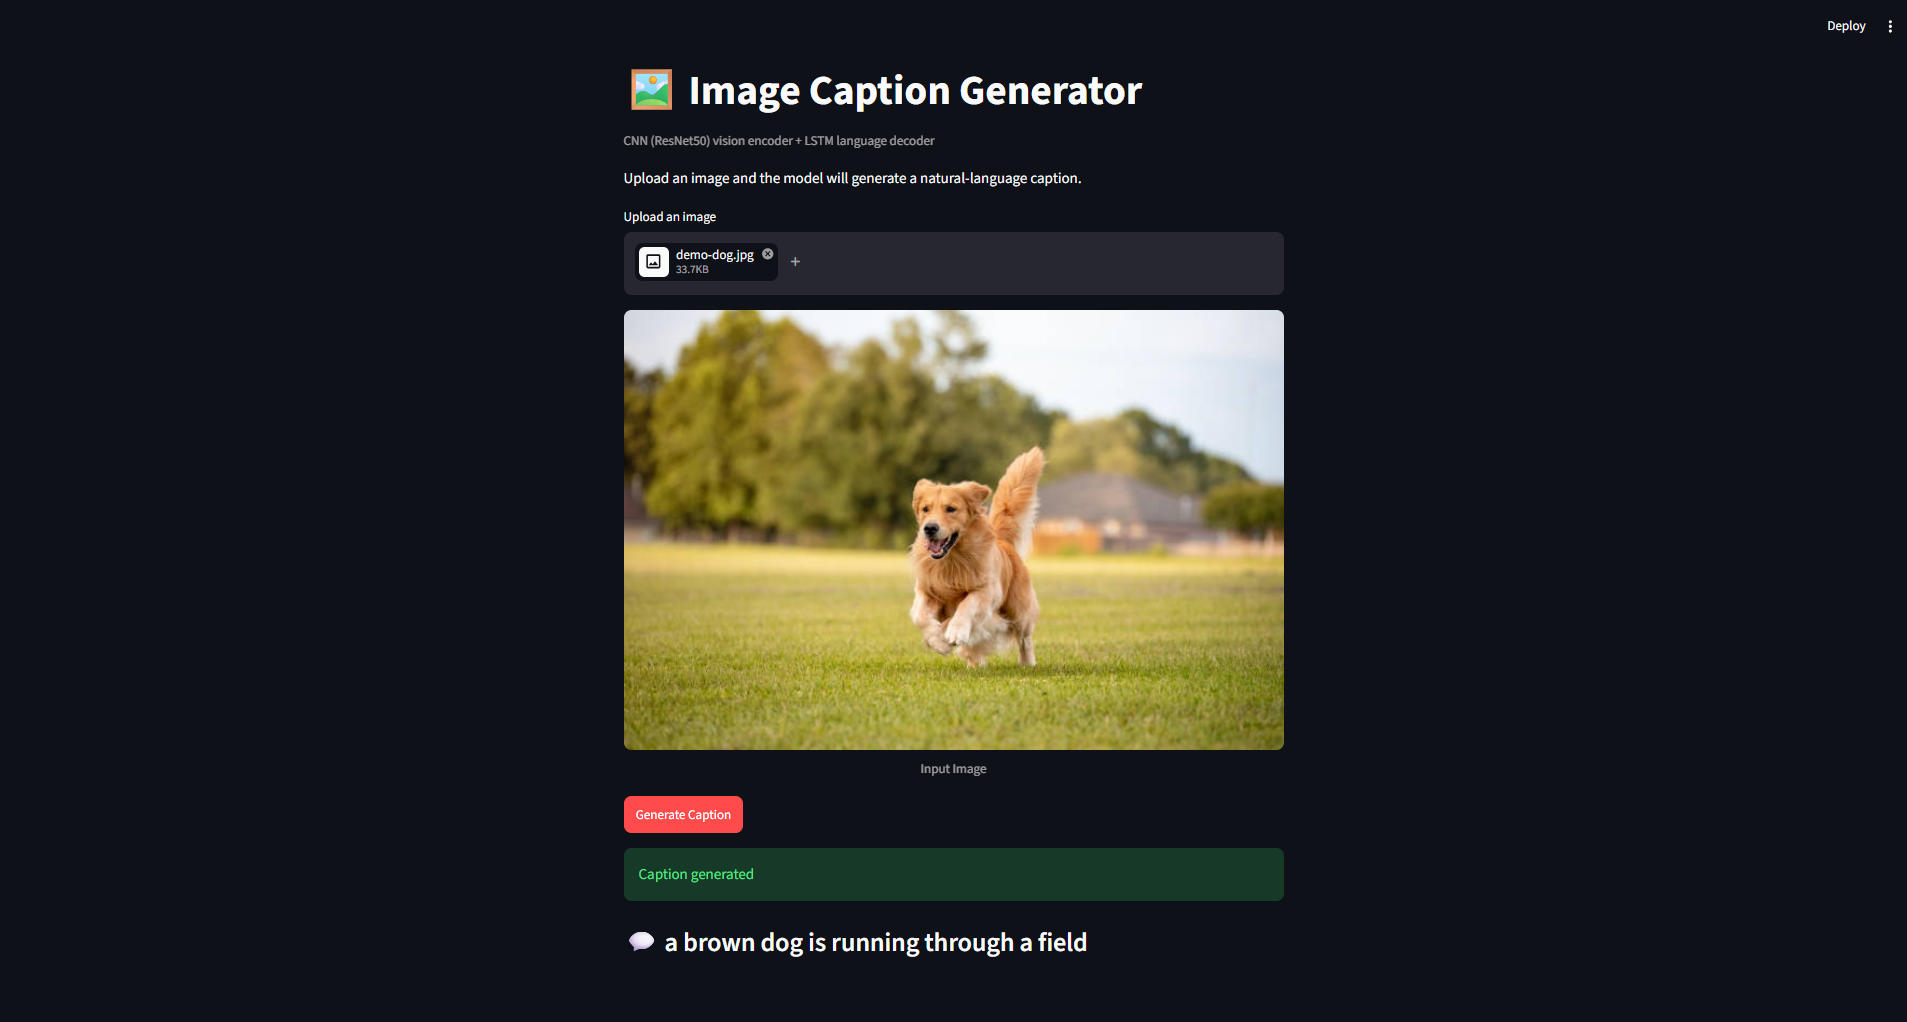
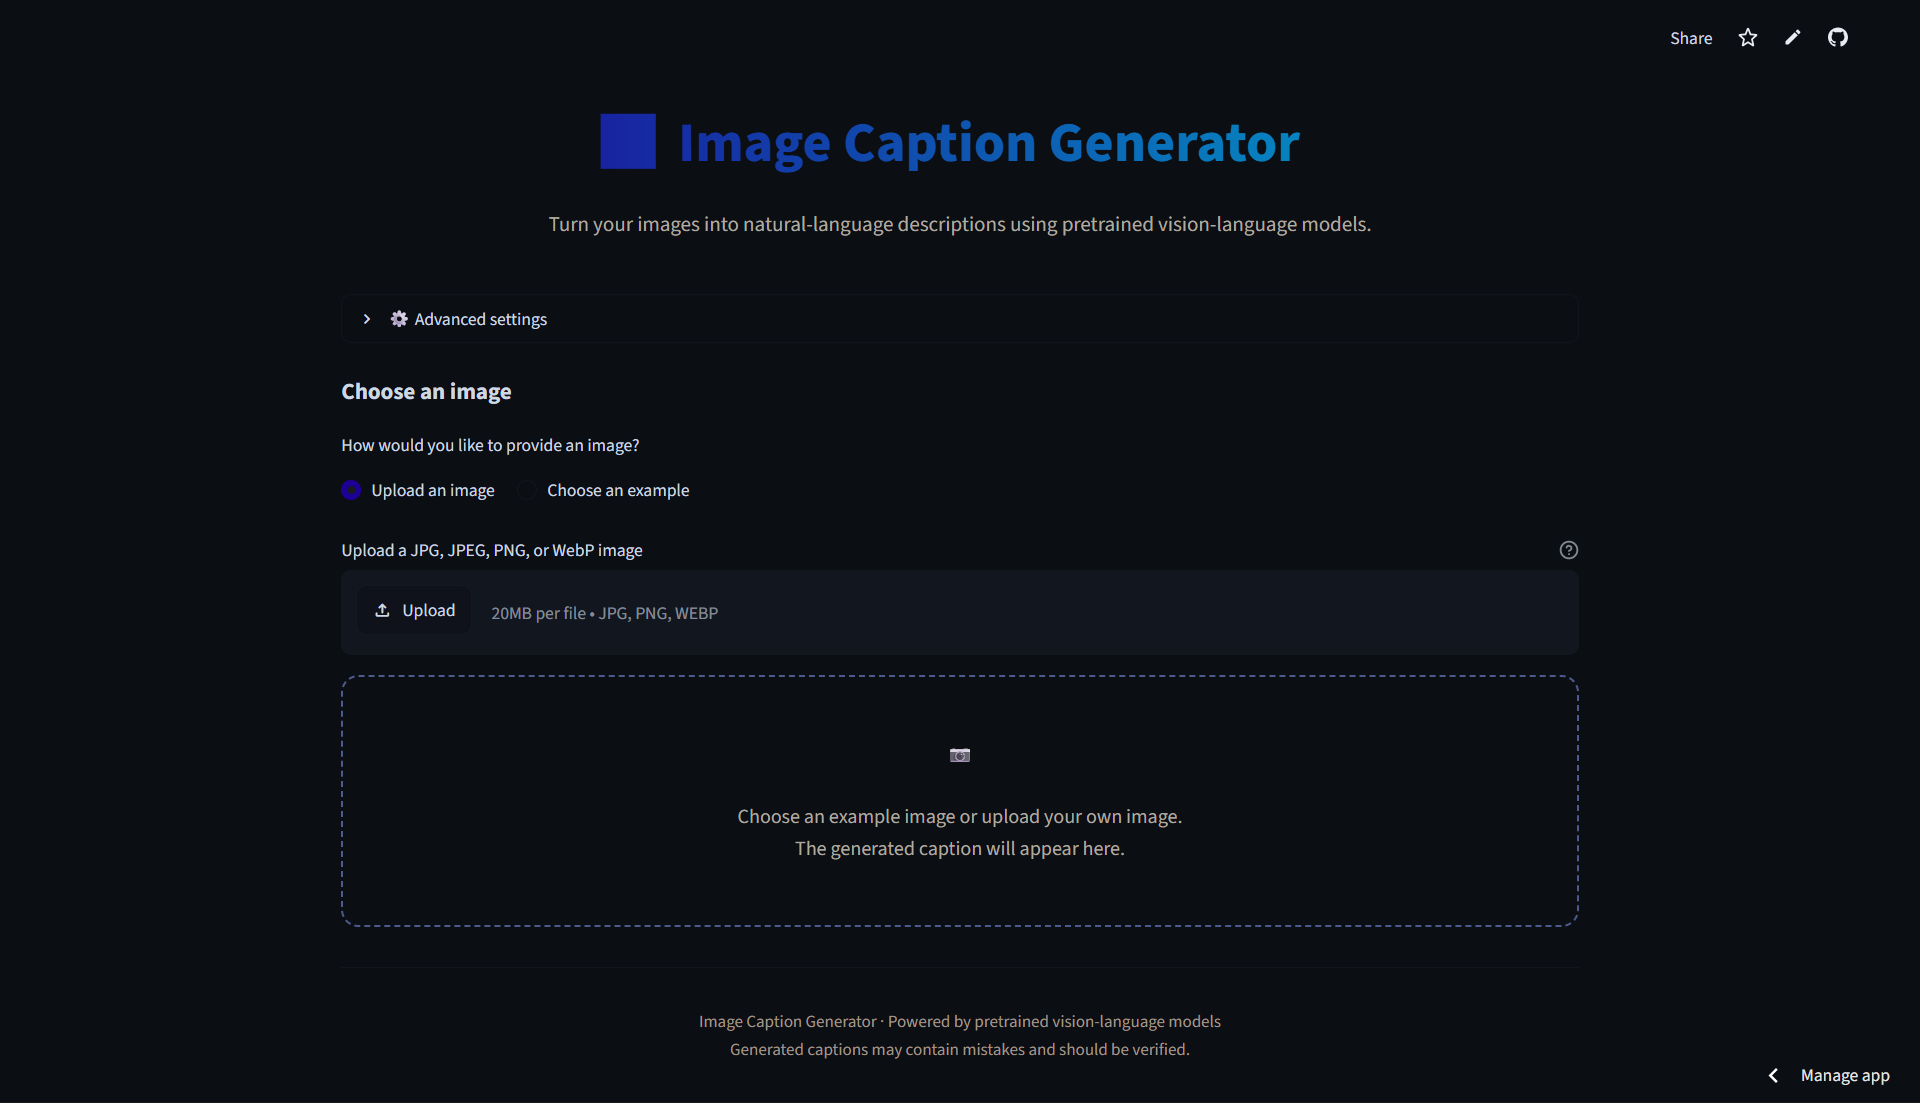
Update README and application screenshots

diff --git a/README.md b/README.md
@@ -1,50 +1,135 @@
 # 🖼 Image Caption Generator
 
-> Image captioning with a pretrained BLIP vision-language model, compared against a ResNet50 + LSTM baseline trained from scratch on Flickr8k.
+A deep learning-based web application that generates natural-language descriptions of images using computer vision and vision-language models. Built with Python, PyTorch, and Streamlit, the application allows users to upload images or select sample images and generate captions through an interactive interface.
 
-[![Live Demo](https://img.shields.io/badge/Live%20Demo-Streamlit-red?logo=streamlit)](https://image-captions-generator.streamlit.app/)
+## 🌐 Live Demo
 
-## Overview
+🚀 **[Try Image Caption Generator](https://image-caption-generator-tgchakgufqrjftvcs8gssm.streamlit.app/)**
 
-Image captioning combines Computer Vision and NLP to describe an image in a sentence.
+## ✨ Features
 
-| Model | Role | Training data |
-|---|---|---|
-| **BLIP (large/base)** | Main model | Pretrained on ~129M image-text pairs, fine-tuned on COCO captions |
-| ResNet50 + LSTM | Baseline | Trained here on Flickr8k (~8k images) |
+- **Image Upload:** Upload your own images for caption generation.
+- **Example Images:** Select sample images provided by the application.
+- **AI-Powered Captioning:** Generate natural-language descriptions of images.
+- **Multiple Models:** Support for BLIP and Qwen vision-language models.
+- **Alternative Captions:** View alternative captions when available.
+- **Caption Regeneration:** Generate another caption for the selected image.
+- **Interactive Interface:** Use the application directly through your web browser.
+- **CNN + LSTM Baseline:** Includes an optional image-captioning model based on ResNet50 and LSTM.
 
-### Why two models?
+## 📸 Screenshots
 
-The ResNet50 + LSTM baseline shows the classic encoder-decoder approach, but with
-only ~8k training images it cannot generalize to arbitrary photos. BLIP uses a
-Vision Transformer encoder and a transformer text decoder, pretrained at scale,
-and decodes with beam search. This is the "before vs. after" of the project.
+### Uploaded Image
 
-## Architecture
+The application generates a caption for an image uploaded by the user.
+
+![Uploaded Image Demo](screenshots/uploaded-image-demo.png)
+
+### Example Image
+
+Users can select an example image and generate its caption.
+
+![Example Image Demo](screenshots/example-image-demo.png)
+
+### Application Interface
+
+![Streamlit Interface](screenshots/streamlit-interface.png)
+
+## 🖼 Sample Input Images
+
+### Uploaded Image
+
+![Original Uploaded Image](screenshots/uploaded-image.png)
+
+### Example Image
+
+![Original Example Image](screenshots/example-image.png)
+
+## 🛠 Technologies Used
+
+| Technology | Purpose |
+|---|---|
+| Python | Core programming language |
+| Streamlit | Web application interface |
+| PyTorch | Deep learning framework |
+| BLIP | Image caption generation |
+| Qwen | Vision-language understanding and caption generation |
+| Torchvision | Image processing and ResNet50 |
+| Pillow (PIL) | Image loading and preprocessing |
+| LSTM | Sequence generation in the optional captioning baseline |
+
+## 🧠 Models and Implementation
+
+### 1. BLIP
+Implemented in `blip_captioner.py`. BLIP is a pretrained vision-language model used to generate natural-language image captions.
+
+### 2. Qwen
+Implemented in `qwen_captioner.py`. The Qwen module supports image understanding and caption generation using a vision-language model.
+
+### 3. CNN + LSTM
+The project also includes a CNN + LSTM captioning baseline.
+
+- **ResNet50:** Extracts visual features from images.
+- **Embedding Layer:** Represents caption tokens as vectors.
+- **LSTM Decoder:** Generates captions sequentially.
+- **Vocabulary:** Maps words and tokens used by the decoder.
+
+The baseline uses the saved model artifacts in the `artifacts/` directory when compatible with the implementation.
+
+## 📂 Project Structure
 
 ```text
-Input image -> preprocessing -> ViT image encoder -> cross-attention text decoder
-            -> beam search (width 5) -> caption
+image-caption-generator/
+│
+├── .streamlit/
+│   └── config.toml
+│
+├── artifacts/
+│   ├── README.md
+│   ├── caption_model.pt
+│   └── vocab.json
+│
+├── dataset/
+│   └── README.md
+│
+├── examples/
+│   └── Example images
+│
+├── screenshots/
+│   ├── streamlit-interface.png
+│   ├── uploaded-image-demo.png
+│   ├── example-image-demo.png
+│   ├── uploaded-image.png
+│   └── example-image.png
+│
+├── app.py
+├── blip_captioner.py
+├── qwen_captioner.py
+├── train.py
+├── requirements.txt
+├── .gitignore
+└── README.md
 ```
 
-## Run
+## 🚀 How to Use
 
-```bash
-pip install -r requirements.txt
-streamlit run app.py
-```
+1. Open the [live application](https://image-caption-generator-tgchakgufqrjftvcs8gssm.streamlit.app/).
+2. Choose **Upload an image** or **Choose an example**.
+3. Upload an image or select a sample image.
+4. Choose an available captioning model if the application provides that option.
+5. Generate the caption.
+6. View the generated description and any available alternative captions.
 
-First run downloads BLIP weights from Hugging Face (large ≈ 1.9 GB, base ≈ 1 GB).
+## 👨💻 Author
 
-Optional baseline (needs the Flickr8k dataset in `dataset/Flickr8k_Dataset/`):
+**Abhix47**
 
-```bash
-python train.py
-```
+- **GitHub:** [Abhix47](https://github.com/Abhix47)
+- **Repository:** [Image Caption Generator](https://github.com/Abhix47/image-caption-generator)
+- **Live Application:** [Launch on Streamlit](https://image-caption-generator-tgchakgufqrjftvcs8gssm.streamlit.app/)
 
-Then tick "Also show Flickr8k CNN+LSTM baseline" in the app sidebar.
+---
 
-## Limitations
-
-- Captions are generic, one-sentence descriptions; fine detail, text in images, counts and rare objects can be wrong.
-- BLIP-large needs ~2-4 GB RAM; the free Streamlit Community Cloud tier (~1 GB) may crash on it. Run locally or use a Hugging Face Space for the demo.
+<p align="center">
+  Built with Python, Deep Learning, and Streamlit.
+</p>
